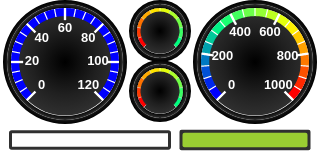
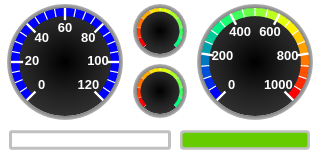
misc

Changed region(s): [[0.0, 0.0, 1.0, 0.9688]]

diff --git a/Gauges/resources/template.js b/Gauges/resources/template.js
@@ -590,7 +590,7 @@ function roundGauge(ctx, arr) {
 
     var start = -1.25 * Math.PI;
     var end = 0.25 * Math.PI;
-    const eTrim = 0.99;
+    const eTrim = 1.0 //0.99;
     var rotate = arr.rotate;
     
     if (arr.gaugetype == "airspeed") {
@@ -626,9 +626,12 @@ function roundGauge(ctx, arr) {
     ctx.fill();
 
     const b1gradient = ctx.createRadialGradient(arr.x0, arr.y0, radius, arr.x0, arr.y0, radius+bezel);
-    b1gradient.addColorStop(0, "black");
-    b1gradient.addColorStop(0.2, "#101010")
-    b1gradient.addColorStop(1, "#303030");
+    //b1gradient.addColorStop(0, "black");
+    //b1gradient.addColorStop(0.2, "#101010")
+    //b1gradient.addColorStop(1, "#303030");
+    b1gradient.addColorStop(0.0, "gray");
+    b1gradient.addColorStop(0.8, "#A9A9A9")
+    b1gradient.addColorStop(1.0, "#C0C0C0");    
     ctx.fillStyle = b1gradient;
     arcsegment(ctx, arr.x0, arr.y0, radius, radius+bezel, 0, 2*Math.PI);
 
@@ -637,8 +640,11 @@ function roundGauge(ctx, arr) {
     b2gradient.addColorStop(1, "black");
     b2gradient.addColorStop(0.2, "#101010")
     b2gradient.addColorStop(0, "#303030");
-    ctx.fillStyle = b2gradient;
-    arcsegment(ctx, arr.x0, arr.y0, radius+bezel, radius+2*bezel, 0, 2*Math.PI);
+    //b2gradient.addColorStop(0  , "gray");
+    //b2gradient.addColorStop(0.5, "#A9A9A9");
+    //b2gradient.addColorStop(  1, "#C0C0C0");
+    ctx.fillStyle = "#C0C0C0" //b2gradient;
+    //arcsegment(ctx, arr.x0, arr.y0, radius+bezel, radius+2*bezel, 0, 2*Math.PI);
 
     var max = arr.max;
     var min = arr.min;
@@ -690,7 +696,7 @@ function virtualGauge(ctx, arr) {
     var arrR = {};
 
     if (typeof arr.value != "number") {
-	console.log("arr.value not number - returning - type:", typeof arr.value)
+	//console.log("arr.value not number - returning - type:", typeof arr.value)
 	return
     }
 
@@ -803,18 +809,21 @@ function textBox(ctx, arr) {
 
     ctx.font="bold " + fontScale * h + "px sans-serif"
 
-    const bezel = 3;
+    const bezel = 2;
 
-    ctx.fillStyle = "#303030";
-    roundedRect(ctx, x0 - arr.width/2, y0 - h/2, arr.width, h, h/10);
+    ctx.fillStyle = "#C0C0C0" //"#303030";
+    ctx.strokeStyle = ctx.fillStyle;
+    roundedRectBezel(ctx, x0 - arr.width/2 + bezel, y0 - h/2 + bezel,
+		     arr.width - 2 * bezel, h - 2 * bezel, h/10, bezel + 1);
 
     if (arr.color) {
 	ctx.fillStyle = arr.color;
     } else {
-	ctx.fillStyle = "yellowgreen";
+	ctx.fillStyle = "#66CC00" //"yellowgreen";
     }
 
-    roundedRect(ctx, x0 - arr.width/2 + bezel, y0 - h/2 + bezel, arr.width - 2*bezel, h-2*bezel, h/10);
+    roundedRect(ctx, x0 - arr.width/2 + bezel + 1, y0 - h/2 + bezel + 1,
+		arr.width - 2 * bezel - 2, h - 2 * bezel - 2, h/10);
         
     ctx.textAlign = "center";
 
@@ -891,18 +900,18 @@ function horizontalBar(ctx, arr) {
 
     const bezel = 2;
 
-    ctx.fillStyle = "#303030";
+    ctx.fillStyle = "#C0C0C0" //"#303030";
     ctx.strokeStyle = ctx.fillStyle;
     
     roundedRectBezel(ctx, arr.x0 - arrR.barW/2 - bezel, arr.y0 - arrR.barH/2 - bezel,
-		 arrR.barW + 2*bezel, arrR.barH + 2 * bezel, arrR.barH/10, 3);
+		 arrR.barW + 2*bezel, arrR.barH + 2 * bezel, arrR.barH/10, bezel+1);
 
     var a;
     var delta;
     arrR.rects = [];
     var rgbI, r, g, b;
 
-    console.log("arr.value", arr.value);
+    //console.log("arr.value", arr.value);
     
     for (var i = 0; i <= arr.divs; i++) {
 	ctx.fillStyle = "#" + rainbow.colourAt(i);
